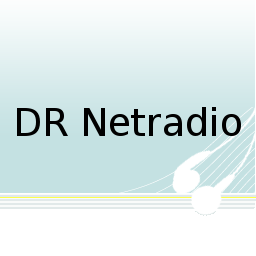
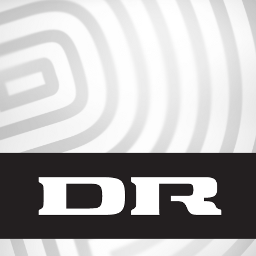
new graphics

diff --git a/addon.py b/addon.py
@@ -1,3 +1,22 @@
+#
+#      Copyright (C) 2011 Tommy Winther
+#      http://tommy.winther.nu
+#
+#  This Program is free software; you can redistribute it and/or modify
+#  it under the terms of the GNU General Public License as published by
+#  the Free Software Foundation; either version 2, or (at your option)
+#  any later version.
+#
+#  This Program is distributed in the hope that it will be useful,
+#  but WITHOUT ANY WARRANTY; without even the implied warranty of
+#  MERCHANTABILITY or FITNESS FOR A PARTICULAR PURPOSE. See the
+#  GNU General Public License for more details.
+#
+#  You should have received a copy of the GNU General Public License
+#  along with XBMC; see the file COPYING.  If not, write to
+#  the Free Software Foundation, 675 Mass Ave, Cambridge, MA 02139, USA.
+#  http://www.gnu.org/copyleft/gpl.html
+#
 import os
 import sys
 import simplejson
@@ -7,6 +26,7 @@ import buggalo
 import xbmcaddon
 import xbmcgui
 import xbmcplugin
+import xbmcvfs
 
 CHANNELS_URL = 'http://www.dr.dk/LiveNetRadio/datafeed/channels.js.drxml'
 
@@ -16,14 +36,15 @@ def showChannels():
     u.close()
 
     channels = simplejson.loads(data[39:-3])
-    path = ADDON.getAddonInfo('path')
     for channel in channels:
-        if channel.has_key('source_url'):
-            item = xbmcgui.ListItem(channel['title'], iconImage = os.path.join(path, 'resources', 'logos', channel['source_url'] + '.png'))
+        logoImage = os.path.join(LOGO_PATH, channel['source_url'] + '.png')
+        if xbmcvfs.exists(logoImage):
+            item = xbmcgui.ListItem(channel['title'], iconImage = logoImage)
         else:
-            item = xbmcgui.ListItem(channel['title'], iconImage = channel['logo'])
+            item = xbmcgui.ListItem(channel['title'], iconImage = ICON)
 
         item.setProperty('IsPlayable', 'true')
+        item.setProperty('Fanart_Image', FANART)
         item.setInfo(type = 'audio', infoLabels = {
                 'title' : channel['title']
         })
@@ -39,6 +60,11 @@ def showChannels():
 if __name__ == '__main__':
     ADDON = xbmcaddon.Addon()
     HANDLE = int(sys.argv[1])
+
+    LOGO_PATH = os.path.join(ADDON.getAddonInfo('path'), 'resources', 'logos')
+    ICON = os.path.join(ADDON.getAddonInfo('path'), 'icon.png')
+    FANART = os.path.join(ADDON.getAddonInfo('path'), 'fanart.jpg')
+
     try:
         showChannels()
     except Exception:
